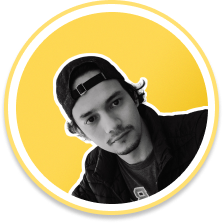
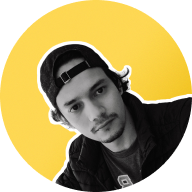
added: set up responsive layout with media.css file for mobiles and tablets

diff --git a/homeworks/oleg-gorodenskyi/05-css-advanced/styles/blocks/media.css b/homeworks/oleg-gorodenskyi/05-css-advanced/styles/blocks/media.css
@@ -1,0 +1,113 @@
+@media (max-width: 1200px) {
+    .container {
+        max-width: 960px;
+    }
+}
+
+@media (max-width: 991px) {
+    .container {
+        max-width: 720px;
+    }
+    
+}
+
+@media (max-width: 767px) {
+    .container {
+        min-width: 540px;
+    }
+    .profile__buttons {
+      
+       flex-direction: column;
+       row-gap: 20px;
+    }
+
+    .profile .profile__facts {
+        gap: 20px;
+    }
+}
+
+@media (max-width: 599px) {
+    .container {
+        width: 100%;
+        padding: 0 10px;
+    }
+
+    .container .switch-theme {
+        width: 48px;
+        height: 48px;
+    }
+
+    .switch-theme img {
+        width: 23px;
+        height: 23px;
+    }
+
+    .profile .profile__info {
+        text-align: center;
+        flex-direction: column;
+        margin-top: 30px;
+    }
+
+    .profile__info .profile__info-avatar {
+        width: 124px;
+        height: 124px;
+        background-color: #0C151D;
+    }
+
+    .profile__info-avatar img {
+        width: 107px;
+        height: 107px;
+    }
+
+    .profile__info-data {
+        margin-top: 40px;
+    }
+
+    .profile .profile__info-social {
+        justify-content: center;
+        margin-top: 20px;
+    }
+
+    .profile .profile__facts {
+        padding: 20px;
+        gap: 27px;
+        margin-top: 30px;
+    }
+    .profile__facts .profile__facts-descr {
+        min-width: 103px;
+    }
+    .profile .profile__facts .profile__facts-descr span:nth-child(1) {
+        font-size: 16px;
+    }
+    .profile .profile__facts .profile__facts-descr span:nth-child(n+2) {
+        font-size: 14px;
+    }
+
+    .profile__buttons {
+        flex-direction: row;
+        max-width: 100%;
+        gap: 14px;
+    }
+
+    .profile .profile__buttons-btn img{
+        width: 16px;
+        height: 14px;
+    }
+
+    .tabs .tabs__wrapper {
+        padding: 6.85px 6.5px;
+    }
+
+    body .portfolio {
+        margin-top: 40px;
+        padding-bottom: 20px;
+    }
+
+    .portfolio .portfolio__content {
+        row-gap: 30px;
+    }
+
+    body footer {
+        margin: 30px 0 40px 0;
+    }
+}

diff --git a/homeworks/oleg-gorodenskyi/05-css-advanced/js/script.js b/homeworks/oleg-gorodenskyi/05-css-advanced/js/script.js
@@ -1,29 +1,40 @@
 window.addEventListener("DOMContentLoaded", function() {
-  const tabs = document.querySelectorAll('.tabs__item');
-  const cards = document.querySelectorAll('.portfolio__card');
 
-  for (let i = 0; i < tabs.length; i++) {
-    tabs[i].addEventListener("click", function() {
-      for (let j = 0; j < tabs.length; j++) {
-        tabs[j].classList.remove("active");
+    const tabs = document.querySelectorAll('.tabs__item');
+    const cards = document.querySelectorAll('.portfolio__card');
+    const pageup = document.querySelector('.pageup');
+
+    for (let i = 0; i < tabs.length; i++) {
+      tabs[i].addEventListener("click", function() {
+        for (let j = 0; j < tabs.length; j++) {
+          tabs[j].classList.remove("active");
+        }
+        this.classList.add("active");
+      });
+    }
+
+    function handleScroll() {
+      cards.forEach(function(card) {
+        const cardTop = card.getBoundingClientRect().top;
+        const windowHeight = window.innerHeight;
+    
+        if (cardTop < windowHeight) {
+          card.classList.add('show');
+        }
+      });
+    }
+
+    function scrollToTop() {
+      if (window.scrollY > 300 && window.innerWidth <= 599) {
+        pageup.classList.add('show');
+      } else {
+        pageup.classList.remove('show');
       }
-      this.classList.add("active");
-    });
-  }
+    }
 
-  function handleScroll() {
-    cards.forEach(function(card) {
-      const cardTop = card.getBoundingClientRect().top;
-      const windowHeight = window.innerHeight;
+    this.window.addEventListener('scroll', handleScroll)
+    this.window.addEventListener('scroll', scrollToTop)
 
-      console.log(cardTop, windowHeight)
-      if (cardTop < windowHeight) {
-        card.classList.add('show');
-      }
-    });
-  }
+  });
+  
 
-  this.window.addEventListener('scroll', handleScroll)
-
-
-});

diff --git a/homeworks/oleg-gorodenskyi/05-css-advanced/styles/blocks/profile.css b/homeworks/oleg-gorodenskyi/05-css-advanced/styles/blocks/profile.css
@@ -1,11 +1,23 @@
 .profile__info {
     margin: 0 auto;
     margin-top: 65px;
-    width: 631px;
+    max-width: 631px;
     display: flex;
     justify-content: center;
     column-gap: 40px;
     align-items: center;
+}
+
+.profile__info-avatar {
+    position: relative;
+    width: 215px;
+    height: 215px;
+    border-radius: 100%;
+    border: 4px solid #F7D039;
+    background: #FFF;
+    display: flex;
+    align-items: center;
+    justify-content: center;
 }
 
 .profile__info-name {
@@ -19,9 +31,9 @@
 }
 
 .profile__info-social {
-    margin-top: 12px;
     display: flex;
     column-gap: 26px;
+    margin-top: 12px;
 }
 
 .profile__info-social a {
@@ -35,12 +47,18 @@
 .profile__facts {
     display: flex;
     justify-content: center;
-    column-gap: 90px;
-    font-size: 22px;
+    gap: 90px;
     color: #A3ABB2;
-    margin: 0 auto;
     margin-top: 48px;
     padding: 20px 31px;
+    gap: 90px;
+}
+
+.profile__facts .profile__facts-descr span:nth-child(1) {
+    font-size: 24px;
+}
+.profile__facts .profile__facts-descr span:nth-child(n+2) {
+    font-size: 22px;
 }
 
 .profile__facts-descr {
@@ -50,13 +68,20 @@
     min-width: 148px;
 }
 
+.profile__facts .profile__facts-descr span:nth-child(1) {
+    font-size: 24px;
+}
+.profile__facts .profile__facts-descr span:nth-child(n+2) {
+    font-size: 22px;
+}
+
 .profile__buttons {
     display: flex;
     justify-content: center;
     width: 618px;
-    height: 80px;
     margin: 0 auto;
     margin-top: 47px;
+    column-gap: 38px;
 }
 
 .profile__buttons-btn {
@@ -95,6 +120,7 @@
     cursor: pointer;
     box-shadow: 0 0 0 10px rgba(250, 250, 250, 0.1);
 }
+
 .profile__buttons-btn-download {
     display: flex;
     justify-content: center;

diff --git a/homeworks/oleg-gorodenskyi/05-css-advanced/index.html b/homeworks/oleg-gorodenskyi/05-css-advanced/index.html
@@ -10,14 +10,19 @@
 </head>
 
 <body>
-    <button class="switch-theme">
-        <img class="switch-theme_animated" src="./assets/icons/switcher-dark-theme.svg" alt="Change theme">
-    </button>
+    <div class="container">
+        <button class="switch-theme">
+            <img class="switch-theme_animated" src="./assets/icons/switcher-dark-theme.svg" alt="Change theme">
+        </button>
 
-    <header class="profile">
+    </div>
+
+    <header class="profile" id="up">
         <div class="container">
             <section class="profile__info">
-                <img src="./assets/img/avatar.png" alt="avatar">
+                <div class="profile__info-avatar">
+                    <img src="./assets/img/avatar.png" alt="avatar">
+                </div>
                 <div class="profile__info-data">
                     <h1 class="profile__info-name">Victor Alvarado</h1>
                     <h2 class="profile__info-speciality">Software Engineer</h2>
@@ -151,6 +156,10 @@
     <footer>
         <div class="container">© Victor Alvarado. 2022 All rigths reserved</div>
     </footer>
+
+    <a href="#up" class="pageup">
+        <img src="assets/icons/circle-chevron-up-solid.svg" alt="up">
+    </a>
     <script src="js/script.js"></script>
 </body>
 

diff --git a/homeworks/oleg-gorodenskyi/05-css-advanced/styles/style.css b/homeworks/oleg-gorodenskyi/05-css-advanced/styles/style.css
@@ -1,5 +1,7 @@
 @import url('base/animation.css');
 
+@import url('blocks/media.css');
+
 @import url('blocks/profile.css');
 @import url('blocks/tabs.css');
 @import url('blocks/portfolio.css');
@@ -9,6 +11,7 @@
     box-sizing: border-box;
     margin: 0;
     padding: 0;
+    scroll-behavior: smooth;
 }
 
 body {
@@ -36,4 +39,18 @@ body {
 
 .switch-theme_animated {
     animation: rotate 6s infinite ease;
+}
+
+.pageup {
+    position: fixed;
+    width: 40px;
+    height: 40px;
+    bottom: 75px;
+    right: 7px;
+    opacity: 0;
+    transition: opacity 0.5s ease;
+}
+
+.show {
+    opacity: 1;
 }

diff --git a/homeworks/oleg-gorodenskyi/05-css-advanced/styles/blocks/tabs.css b/homeworks/oleg-gorodenskyi/05-css-advanced/styles/blocks/tabs.css
@@ -1,8 +1,7 @@
 .tabs__wrapper {
     padding: 23px 18px;
     background-color: #171F26;
-    width: 756px;
-    height: 132px;
+    max-width: 756px;
     border-radius: 10px;
     margin: 0 auto;
     margin-top: 75px;
